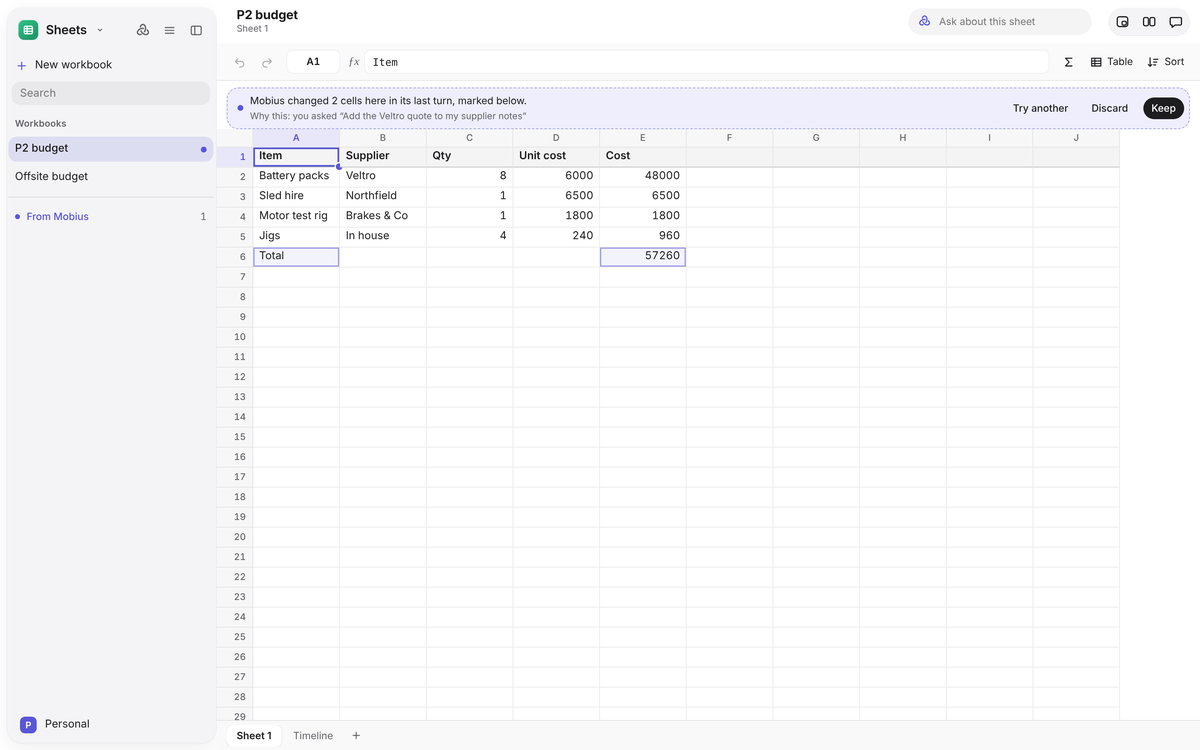
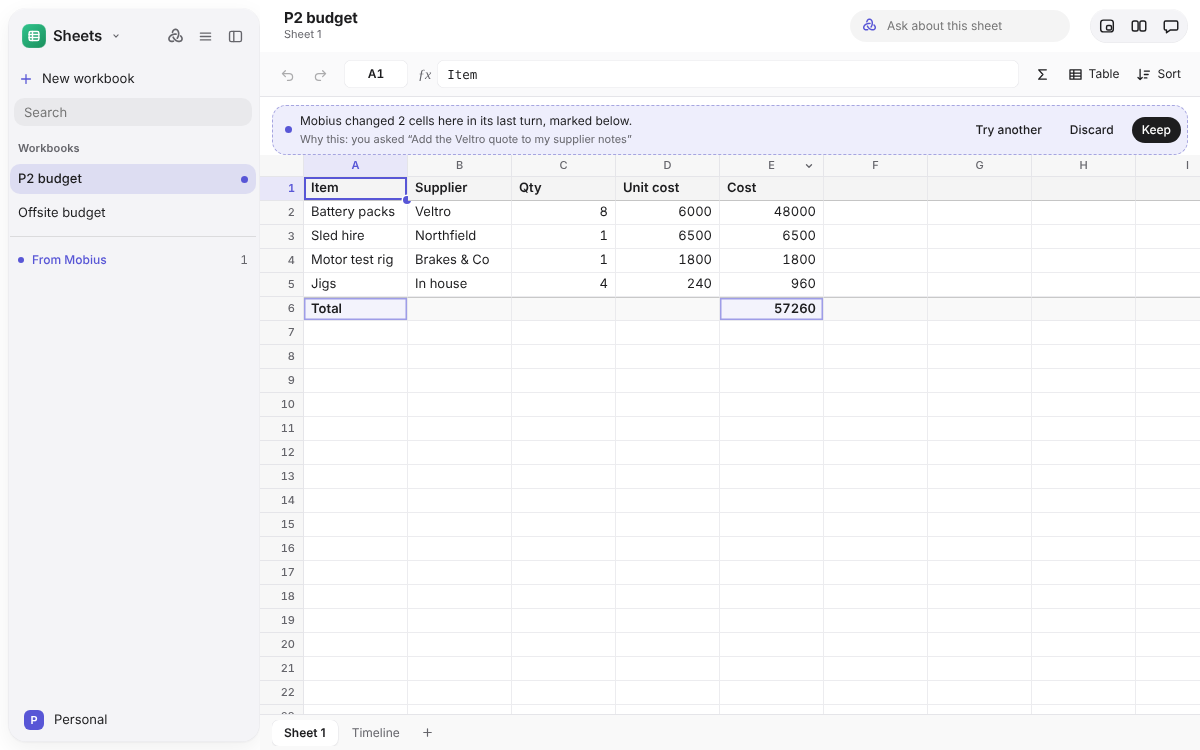
Sheets: a menu on each column, the total row set apart, and no stray text selection
- Each column letter has a chevron menu: sort A to Z / Z to A, add a column
  before or after, fit to contents, delete. Sorting a whole column keeps the
  header and total rows in place.
- A last row that sums the rows above is bold with a rule above it.
- Shift-click and drag over cells no longer paint the cell text as a page
  selection.
- Picking a whole row or column keeps the focus on its first cell, so the
  view no longer jumps to the end.
- e2e, README screenshot and docs updated.

Claude-Session: https://claude.ai/code/session_01VRGwo5cg4dWJLUoVTjc5V1

diff --git a/apps/desktop/src/Sheets.tsx b/apps/desktop/src/Sheets.tsx
@@ -205,6 +205,8 @@ export function SheetGrid({ sheets, review }: { sheets: SheetsState; review?: { 
   const [pick, setPick] = useState<{ start: number; end: number; from: Pos } | null>(null);
   const [fillTo, setFillTo] = useState<Pos | null>(null);
   const [menu, setMenu] = useState<{ x: number; y: number } | null>(null);
+  // A column's own menu, from the chevron on its letter, as in Numbers.
+  const [colMenu, setColMenu] = useState<{ c: number; x: number; y: number } | null>(null);
   const [suggest, setSuggest] = useState(0);
   const [, setTick] = useState(0);
   const drag = useRef<'select' | 'ref' | 'fill' | null>(null);
@@ -235,7 +237,7 @@ export function SheetGrid({ sheets, review }: { sheets: SheetsState; review?: { 
     input?.setSelectionRange(caretTo.current, caretTo.current);
     caretTo.current = null;
   });
-  // The cell that moves stays in view.
+  // The cell that moves stays in view. Picking a whole row or column keeps the focus on its first cell, so the view stays put.
   useEffect(() => { grid.current?.querySelector<HTMLElement>(`[data-cell="${focus.r}:${focus.c}"]`)?.scrollIntoView({ block: 'nearest', inline: 'nearest' }); }, [focus]);
   useEffect(() => {
     const up = () => {
@@ -302,6 +304,8 @@ export function SheetGrid({ sheets, review }: { sheets: SheetsState; review?: { 
   const width = Math.min(52, Math.max(10, used.cols + 3, focus.c + 2, fillTo ? fillTo.c + 2 : 0));
   const height = Math.max(40, used.rows + 20, focus.r + 10, fillTo ? fillTo.r + 5 : 0);
   const headerOn = header ?? looksLikeHeader(data.values);
+  // A last row that adds up the rows above reads as the table's total, set apart as in Numbers.
+  const footerAt = hasFooter(data.cells) ? used.rows - 1 : -1;
   // A column the person has not sized fits its words, so names and labels are not cut short.
   const fitted = fittedWidths(data.values, headerOn);
   const colWidth = (c: number) => widths[c] ?? fitted[c] ?? COL_W;
@@ -481,7 +485,9 @@ export function SheetGrid({ sheets, review }: { sheets: SheetsState; review?: { 
     const r0 = headerOn ? 1 : 0;
     const r1 = Math.max(r0, used.rows - (hasFooter(data.cells) ? 2 : 1));
     // A block of rows picked sorts just those; otherwise every row under the header.
-    const rows = rangeSize(sel) > 1 && sel.r1 > sel.r0 ? { r0: Math.max(sel.r0, r0), r1: sel.r1 } : { r0, r1 };
+    // A whole column picked (from its letter) sorts every row, keeping the header and the total row where they are.
+    const block = rangeSize(sel) > 1 && sel.r1 > sel.r0 && !(sel.r0 <= r0 && sel.r1 >= r1);
+    const rows = block ? { r0: Math.max(sel.r0, r0), r1: Math.min(sel.r1, r1) } : { r0, r1 };
     void apply(sortedRows(data.cells, data.values, rows.r0, rows.r1, col, ascending));
   };
   const quick = (fn: string) => {
@@ -641,9 +647,27 @@ export function SheetGrid({ sheets, review }: { sheets: SheetsState; review?: { 
                   scope="col"
                   style={{ width: colWidth(c) }}
                   data-on={(c >= sel.c0 && c <= sel.c1) || undefined}
-                  onMouseDown={(e) => { if (e.button !== 0) return; e.preventDefault(); grid.current?.focus(); const end = Math.max(used.rows - 1, height - 1); if (e.shiftKey) { setAnchor({ r: 0, c: anchor.c }); setFocus({ r: end, c }); } else select({ r: 0, c }, { r: end, c }); }}
+                  data-menu={colMenu?.c === c || undefined}
+                  onMouseDown={(e) => { if (e.button !== 0) return; e.preventDefault(); grid.current?.focus(); const end = Math.max(used.rows - 1, height - 1); if (e.shiftKey) { setAnchor({ r: end, c: anchor.c }); setFocus({ r: 0, c }); } else select({ r: end, c }, { r: 0, c }); }}
                 >
                   {columnName(c)}
+                  <button
+                    type="button"
+                    className="sheet-col-more"
+                    aria-label={`Column ${columnName(c)} options`}
+                    aria-haspopup="menu"
+                    aria-expanded={colMenu?.c === c}
+                    tabIndex={-1}
+                    onMouseDown={(e) => { e.preventDefault(); e.stopPropagation(); }}
+                    onClick={(e) => {
+                      grid.current?.focus();
+                      select({ r: Math.max(used.rows - 1, height - 1), c }, { r: 0, c });
+                      const r = e.currentTarget.getBoundingClientRect();
+                      setColMenu({ c, x: r.left, y: r.bottom + 4 });
+                    }}
+                  >
+                    <svg viewBox="0 0 12 12" aria-hidden="true"><path d="M3 4.5 6 7.5l3-3" /></svg>
+                  </button>
                   <span className="sheet-col-resize" role="separator" aria-orientation="vertical" aria-label={`Width of column ${columnName(c)}`} onPointerDown={(e) => resizeFrom(c, e)} onDoubleClick={() => fitColumn(c)} onMouseDown={(e) => e.stopPropagation()} />
                 </th>
               ))}
@@ -651,11 +675,11 @@ export function SheetGrid({ sheets, review }: { sheets: SheetsState; review?: { 
           </thead>
           <tbody>
             {Array.from({ length: height }, (_, r) => (
-              <tr key={r} className={headerOn && r === 0 ? 'sheet-header-row' : undefined}>
+              <tr key={r} className={headerOn && r === 0 ? 'sheet-header-row' : r === footerAt && r > 0 ? 'sheet-footer-row' : undefined}>
                 <th
                   scope="row"
                   data-on={(r >= sel.r0 && r <= sel.r1) || undefined}
-                  onMouseDown={(e) => { if (e.button !== 0) return; e.preventDefault(); grid.current?.focus(); const end = Math.max(width - 1, used.cols - 1); if (e.shiftKey) { setAnchor({ r: anchor.r, c: 0 }); setFocus({ r, c: end }); } else select({ r, c: 0 }, { r, c: end }); }}
+                  onMouseDown={(e) => { if (e.button !== 0) return; e.preventDefault(); grid.current?.focus(); const end = Math.max(width - 1, used.cols - 1); if (e.shiftKey) { setAnchor({ r: anchor.r, c: end }); setFocus({ r, c: 0 }); } else select({ r, c: end }, { r, c: 0 }); }}
                 >{r + 1}</th>
                 {Array.from({ length: width }, (_, c) => {
                   const here = edit && edit.at.r === r && edit.at.c === c && edit.where === 'cell';
@@ -746,6 +770,22 @@ export function SheetGrid({ sheets, review }: { sheets: SheetsState; review?: { 
             {tableMenu(() => setMenu(null))}
             <Sep />
             {sortMenu(() => setMenu(null))}
+          </div>
+        </>,
+        document.body,
+      )}
+      {colMenu && createPortal(
+        <>
+          <div className="sheet-scrim" onMouseDown={() => setColMenu(null)} onContextMenu={(e) => { e.preventDefault(); setColMenu(null); }} />
+          <div className="sheet-menu" role="menu" aria-label={`Column ${columnName(colMenu.c)}`} style={{ top: Math.min(colMenu.y, window.innerHeight - 260), left: Math.max(8, Math.min(colMenu.x, window.innerWidth - 230)), minWidth: 220 }} onKeyDown={(e) => { if (e.key === 'Escape') { setColMenu(null); grid.current?.focus(); } }}>
+            <Item onPick={() => { const c = colMenu.c; setColMenu(null); sortBy(c, true); }}>Sort A to Z</Item>
+            <Item onPick={() => { const c = colMenu.c; setColMenu(null); sortBy(c, false); }}>Sort Z to A</Item>
+            <Sep />
+            <Item onPick={() => { const c = colMenu.c; setColMenu(null); void shiftAt('column', c, true); }}>Add column before</Item>
+            <Item onPick={() => { const c = colMenu.c; setColMenu(null); void shiftAt('column', c + 1, true); }}>Add column after</Item>
+            <Item onPick={() => { const c = colMenu.c; setColMenu(null); fitColumn(c); }}>Fit to contents</Item>
+            <Sep />
+            <Item danger onPick={() => { const c = colMenu.c; setColMenu(null); void shiftAt('column', c, false); }}>Delete column</Item>
           </div>
         </>,
         document.body,

diff --git a/apps/desktop/src/sheets.css b/apps/desktop/src/sheets.css
@@ -26,11 +26,18 @@
 .sheet-page .sheet-table tbody th { z-index: 2; cursor: default; }
 .sheet-page .sheet-table th[data-on] { background: color-mix(in srgb, var(--accent) 14%, var(--bg)); color: var(--accent); font-weight: 600; }
 .sheet-corner { cursor: default; }
+.sheet-col-more { position: absolute; top: 3px; right: 6px; width: 16px; height: 16px; display: grid; place-items: center; padding: 0; border: 0; border-radius: 4px; background: transparent; color: inherit; opacity: 0; cursor: default; transition: opacity var(--dur-fast) var(--ease); }
+.sheet-col-more svg { width: 10px; height: 10px; fill: none; stroke: currentColor; stroke-width: 1.6; stroke-linecap: round; stroke-linejoin: round; }
+.sheet-page .sheet-table thead th:hover .sheet-col-more, .sheet-col-more:focus-visible, .sheet-page .sheet-table thead th[data-menu] .sheet-col-more { opacity: 1; }
+.sheet-col-more:hover, .sheet-page .sheet-table thead th[data-menu] .sheet-col-more { background: color-mix(in srgb, currentColor 16%, transparent); }
 .sheet-col-resize { position: absolute; top: 0; right: -3px; bottom: 0; width: 7px; cursor: col-resize; z-index: 1; }
 .sheet-col-resize:hover { background: linear-gradient(to right, transparent 3px, var(--accent) 3px, var(--accent) 4px, transparent 4px); }
 .sheet-page .sheet-table td { max-width: none; height: 24px; padding: 0 7px; border-right: 0.5px solid color-mix(in srgb, var(--line) 75%, transparent); border-bottom: 0.5px solid color-mix(in srgb, var(--line) 75%, transparent); outline: none; overflow: visible; text-overflow: clip; }
 .sheet-page .sheet-table td { overflow: hidden; text-overflow: ellipsis; }
 .sheet-page .sheet-table td[aria-selected="true"] { outline: none; }
+/* Picking cells selects cells, not the words in them: dragging or Shift-clicking never paints page text. */
+.sheet-page .sheet-table td { user-select: none; -webkit-user-select: none; }
+.sheet-page .sheet-cell-input { user-select: text; -webkit-user-select: text; }
 .sheet-page .sheet-table td[data-in] { background: color-mix(in srgb, var(--accent) 11%, var(--bg)); }
 .sheet-page .sheet-table td[data-focus] { z-index: 1; }
 .sheet-page .sheet-table td[data-formula]:not([data-error]) { color: var(--ink); }
@@ -53,6 +60,10 @@
 .sheet-page .sheet-header-row td { background: color-mix(in srgb, var(--ink) 5%, var(--bg)); font-weight: 600; border-bottom: 1px solid color-mix(in srgb, var(--ink) 22%, transparent); }
 .sheet-page .sheet-header-row td[data-in] { background: color-mix(in srgb, var(--accent) 16%, var(--bg)); }
 .sheet-page .sheet-table .sheet-header-row th { z-index: 3; }
+
+/* A total row: bold, with a rule above it, as Numbers sets a footer row apart. */
+.sheet-page .sheet-footer-row td { font-weight: 600; border-top: 1px solid color-mix(in srgb, var(--ink) 22%, transparent); background: color-mix(in srgb, var(--ink) 2.5%, var(--bg)); }
+.sheet-page .sheet-footer-row td[data-in] { background: color-mix(in srgb, var(--accent) 14%, var(--bg)); }
 
 /* ---------- Menus and the function list ---------- */
 .sheet-scrim { position: fixed; inset: 0; z-index: 900; }

diff --git a/apps/desktop/e2e/sheets.spec.ts b/apps/desktop/e2e/sheets.spec.ts
@@ -154,5 +154,16 @@ test('pick a block, fill it down, undo, sort from the menu, and build a formula 
   await expect(cell('A5')).toHaveText('Total');
   await expect(cell('D5')).toHaveText('5420');
   await expect.poll(() => fs.readFileSync(file('Budget'), 'utf8')).toBe('Item,Qty,Unit,Total\nLunch,=People!B1,40,=B2*C2\nTerrace venue,1,620,=B3*C3\nHotel,14,320,=B4*C4,"=ROUND(D4/14,0)"\nTotal,,,=SUM(D2:D4)\n');
+
+  // Sorted again from column B's own menu, largest first: the whole column picked still leaves the header and total row put.
+  await shell().getByRole('columnheader', { name: /^B/ }).hover();
+  await shell().getByRole('button', { name: 'Column B options' }).click();
+  await shell().getByRole('menu', { name: 'Column B' }).getByRole('menuitem', { name: 'Sort Z to A' }).click();
+  await expect(cell('A2')).toHaveText('Hotel');
+  await expect(cell('A4')).toHaveText('Terrace venue');
+  await expect(cell('A5')).toHaveText('Total');
+  await expect(shell().getByLabel('Selected cell')).toHaveText(/^B1:B\d+$/);
+  // The total row reads as one, set apart from the rows it adds up.
+  await expect(shell().locator('tr.sheet-footer-row')).toContainText('Total');
   await expect(cell('A1')).toHaveText('Item');
 });

diff --git a/docs/apps/write-and-plan.md b/docs/apps/write-and-plan.md
@@ -73,7 +73,10 @@ Spreadsheets with formulas.
 
 - Type in the cell or the formula bar. Formulas such as `=SUM(B2:B4)`, `=D2/People!B1` and `=IF(A1>0,"yes","no")` work
   across sheets, with a hint for the function you are in.
-- Columns size themselves to fit, and a first row of words over numbers reads as a header.
+- Columns size themselves to fit, and a first row of words over numbers reads as a header. A last row that adds up
+  the rows above reads as the total, in bold with a rule above it.
+- Each column letter has a menu (hover it for the chevron) to sort by that column, add or delete columns and fit the
+  width. Sorting keeps the header and total rows where they are.
 - Sheets are tabs below the grid. Insert and remove rows and columns; Ctrl+Z undoes any step.
 
 **Kept in:** `workspace/sheets/`, each workbook a folder and each sheet a CSV file that any spreadsheet app can open.
